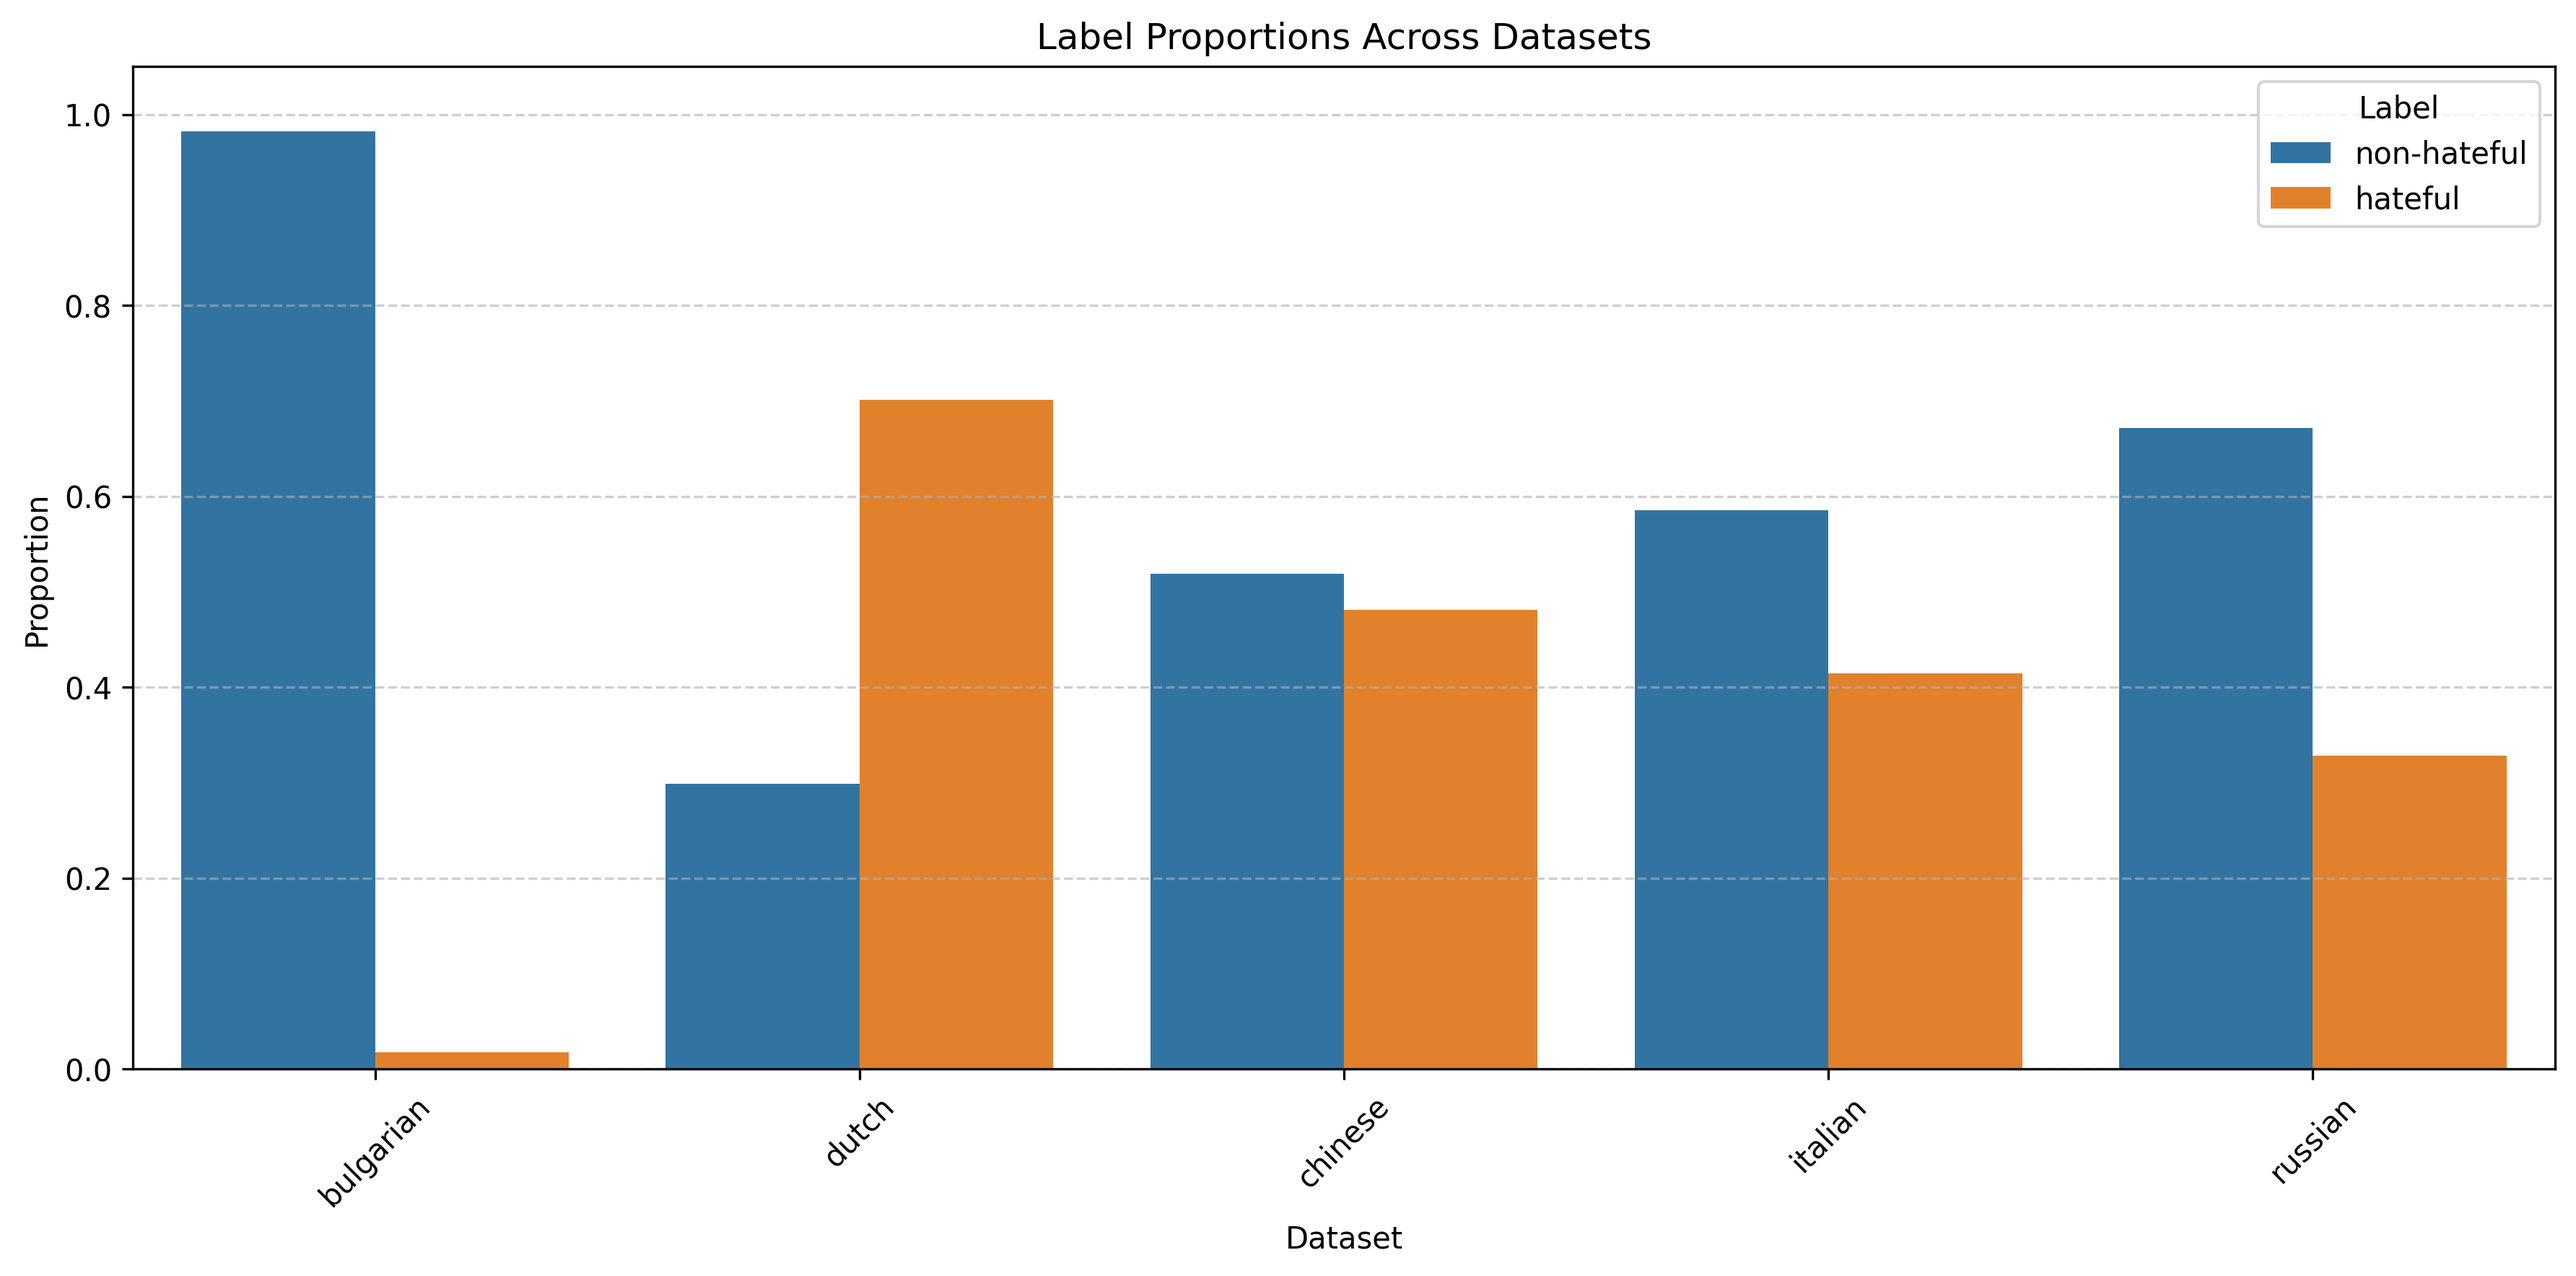
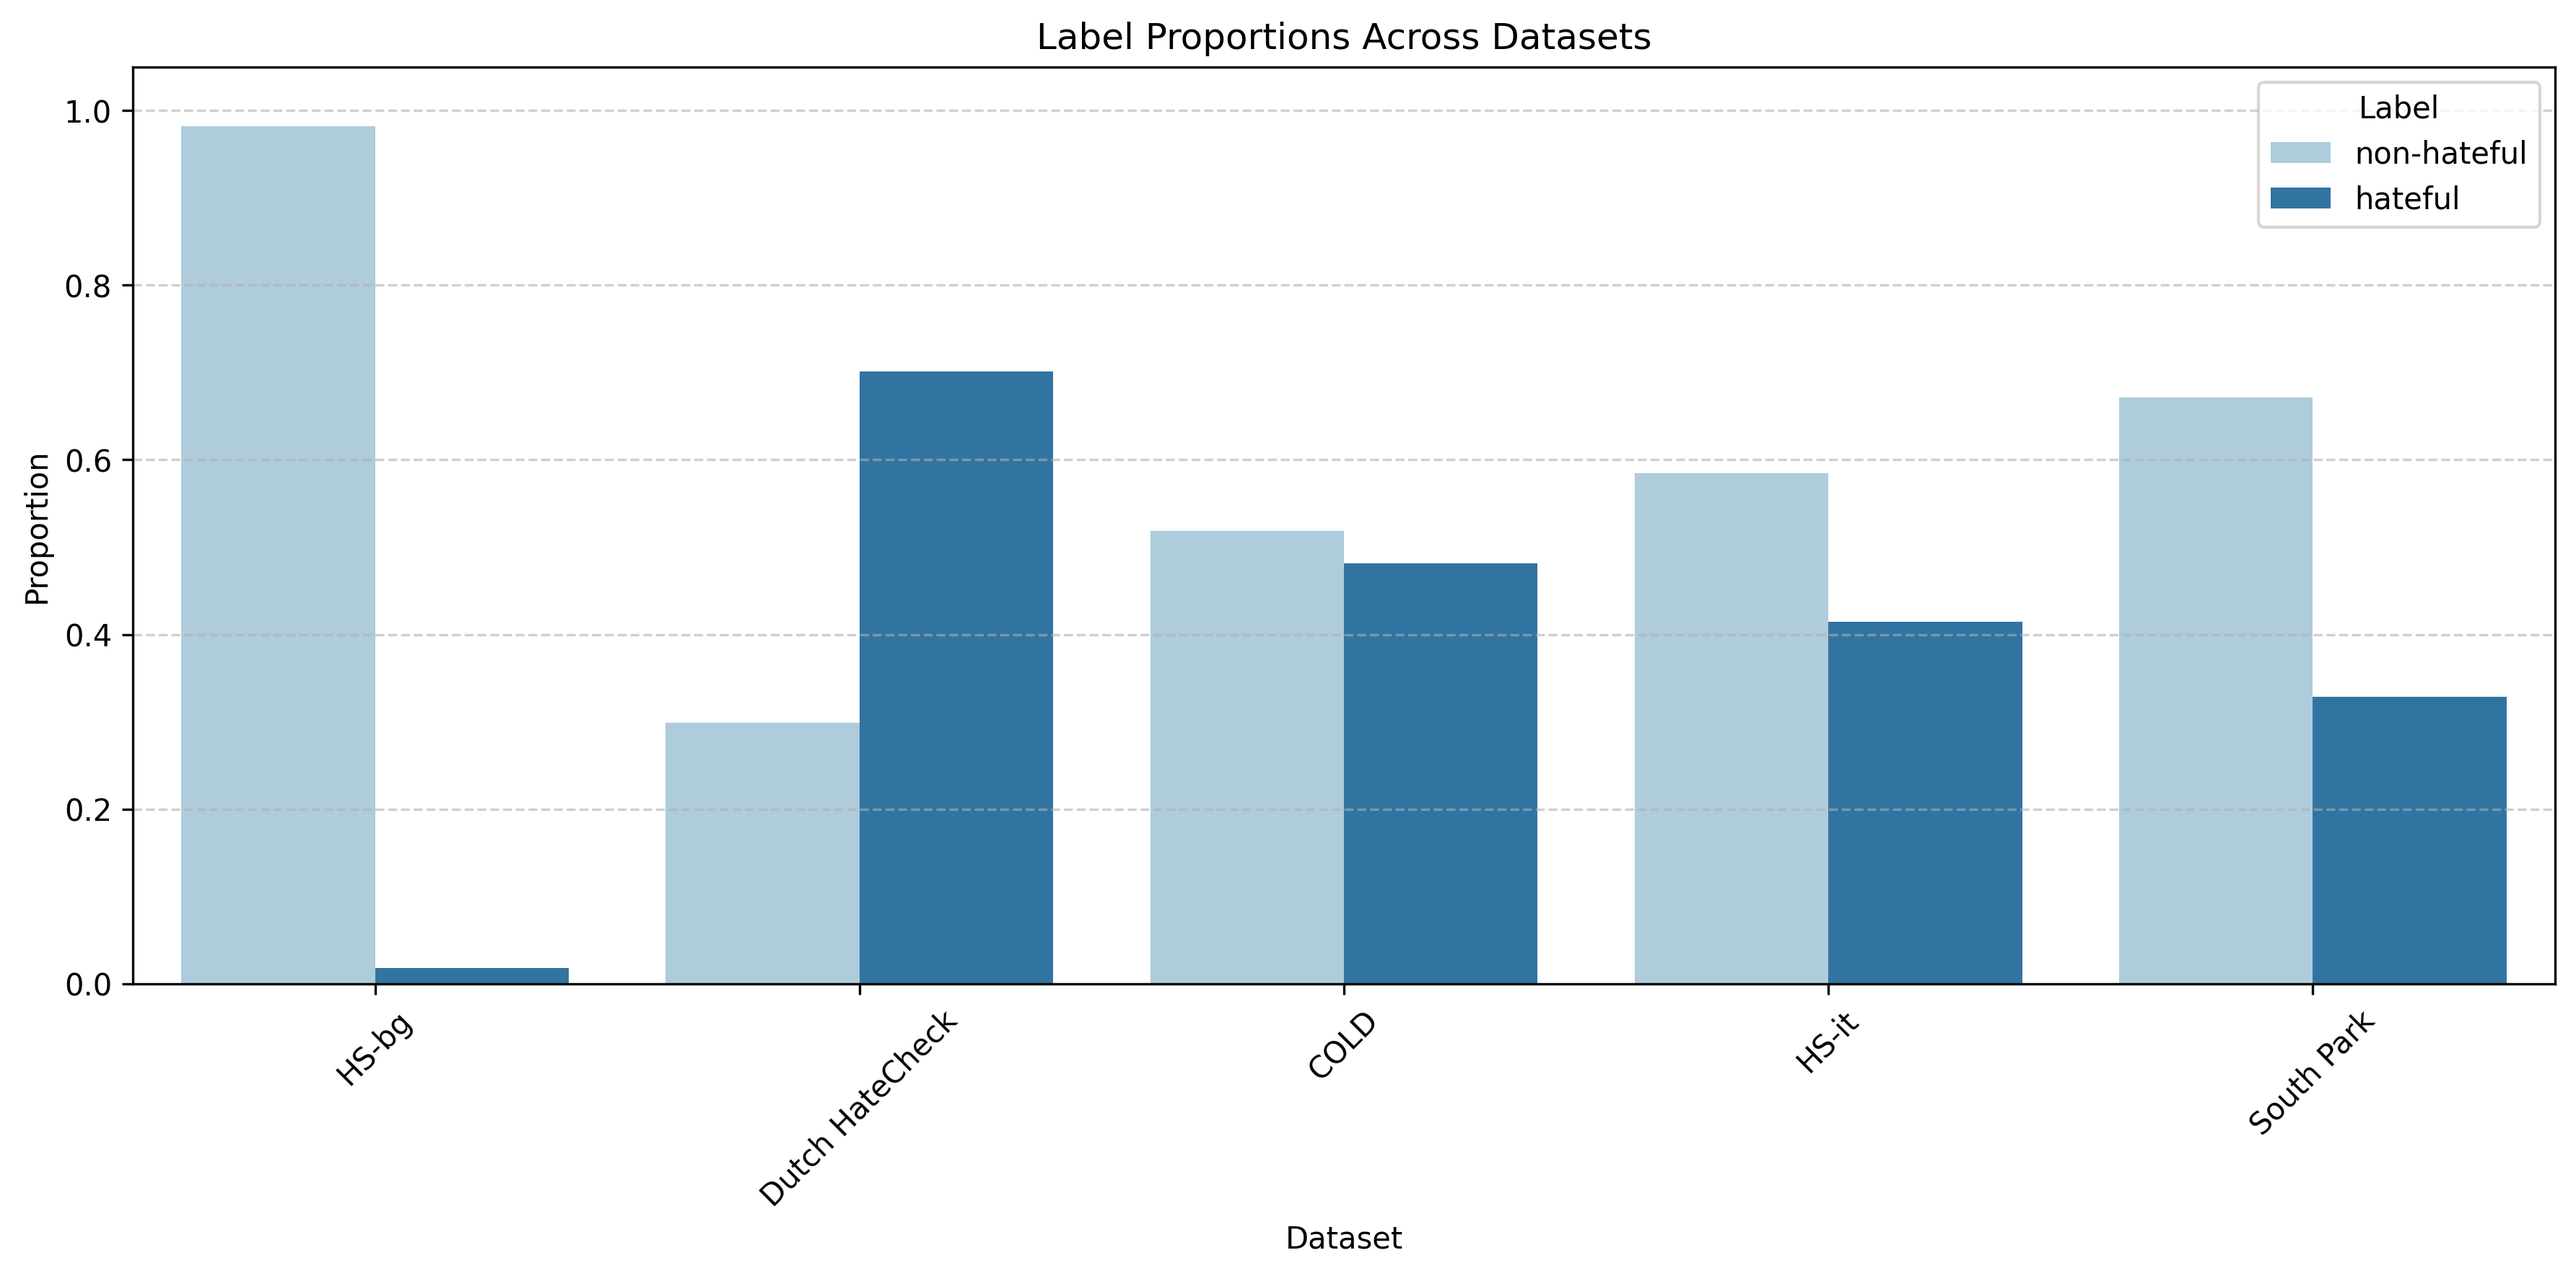
Updated EDA plots HSD

diff --git a/Hate Speech Detection/train.py b/Hate Speech Detection/train.py
@@ -16,7 +16,7 @@ import random
 from src.utils import load_model
 
 parser = argparse.ArgumentParser()
-parser.add_argument("--cleaning", type=str, help="Data cleaning or not?", default="no")
+parser.add_argument("--cleaning", type=str, help="Skip data cleaning or not?", default="yes")
 parser.add_argument("--language", type=str, help="Dataset language", default="bg")
 parser.add_argument("--original", type=str, help="Original (or) or translated (tr) dataset?", default="tr")
 parser.add_argument("--tuning", type=str, help="Hyperparameter tuning (hp) or fine-tuning (ft)?", default="ft")
@@ -79,10 +79,7 @@ seed = config['general']['seed']
 random.seed(seed)
 logger = setup_logger(log_dir)
 
-print("OK")
-print(args.cleaning)
-if args.cleaning == "yes":
-        print("Cleaning...")
+if not args.cleaning:
         # Load and prepare dataset
         train, val, test = DatasetPreparer(
                 config['dataset']['train_path'],

diff --git a/Hate Speech Detection/EDA.py b/Hate Speech Detection/EDA.py
@@ -32,7 +32,7 @@ def plot_labels(datasets, save_path):
 
     # Plot
     plt.figure(figsize=(12, 6))
-    sns.barplot(data=plot_df, x='Dataset', y='Proportion', hue='Label')
+    sns.barplot(data=plot_df, x='Dataset', y='Proportion', hue='Label', palette='Paired')
     plt.title('Label Proportions Across Datasets')
     plt.xticks(rotation=45)
     plt.ylim(0, 1.05)
@@ -92,11 +92,11 @@ df_ch = load_dataset_splits(config_ch)
 
 
 datasets = {
-    'Bulgarian': df_bg,
-    'Dutch': df_nl,
-    'Chinese': df_ch,
-    'Italian': df_it,
-    'Russian': df_ru
+    'HS-bg': df_bg,
+    'Dutch HateCheck': df_nl,
+    'COLD': df_ch,
+    'HS-it': df_it,
+    'South Park': df_ru
 }
 
 # Define the directory and filename
